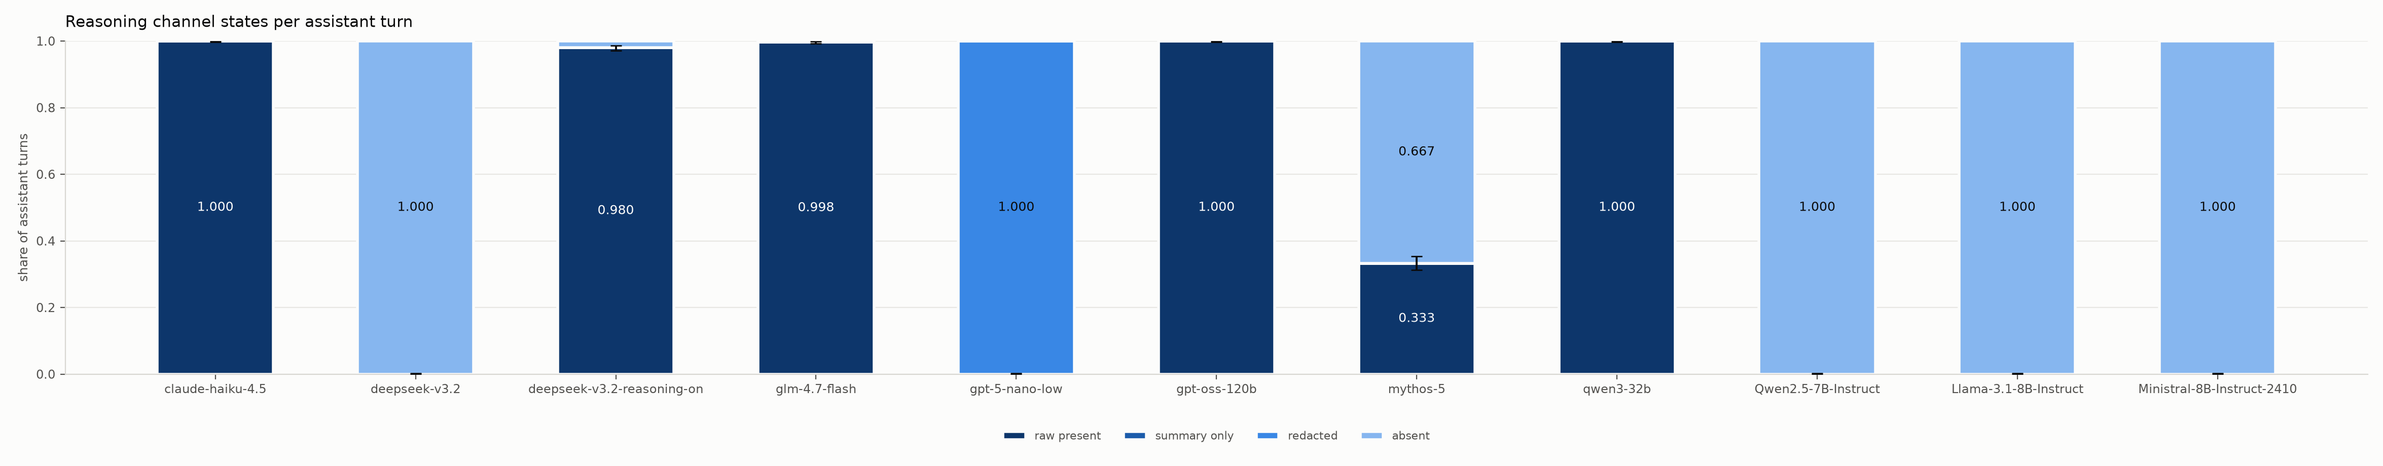
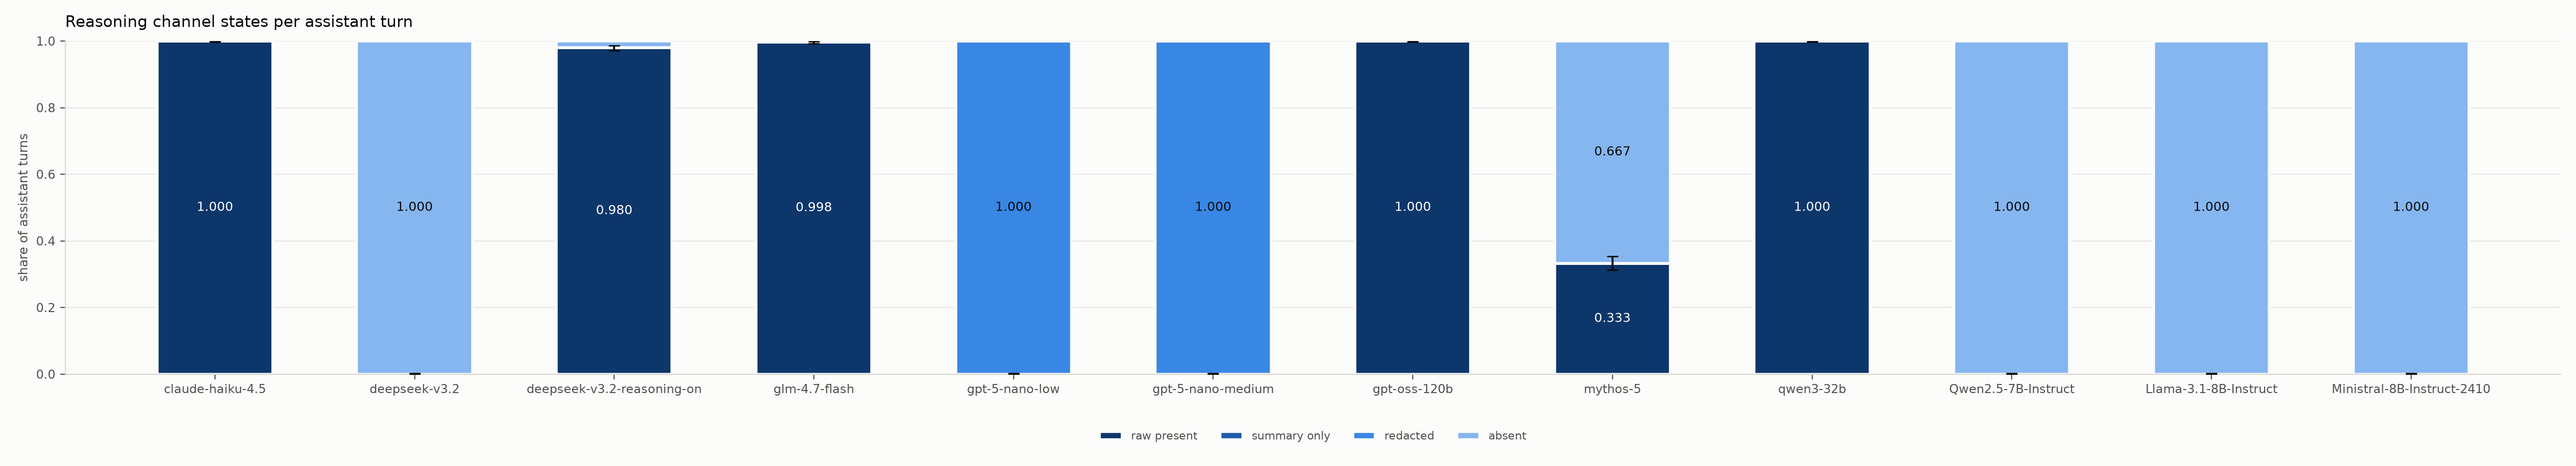
the effort axis: 5.4x more reasoning, identical zero disclosure
gpt-5-nano-medium complete. The reasoning_effort axis - absent from this project
until tonight, and the only MANIPULATED variable in it - now has two levels:

  effort   turns  reasoning tokens  tokens/turn  raw_present  redacted
  low      1,263           341,726          337       0.0000    1.0000
  medium   1,263         1,834,432        1,811       0.0000    1.0000

The manipulation worked: volume went up 5.4x. The outcome did not move at all.
So how much a model reasons and how much of it you may read are separate
quantities, and this arm moves one while the other stays pinned at zero.

The practical consequence is a bad inference this kills: "the model reasoned a
lot, so there was plenty for a monitor to catch". Here there were 1.8 MILLION
reasoning tokens and a recall ceiling of 0.000. A monitor gated on deliberation
gains nothing from the model thinking harder, because the gate is not set by the
thinking.

Scope stated in the document rather than left to be over-read: one model, one
vendor, two of three levels. It shows effort and disclosure CAN be independent,
not that they always are. One clean counter-example is enough for the claim
being made, which is that volume is not evidence of visibility.

8 of 9 arms, 10,104 turns. Only gpt-5-nano-high remains. 187 tests pass.

diff --git a/RESULTS_SUMMARY.md b/RESULTS_SUMMARY.md
@@ -71,7 +71,7 @@ OpenRouter, 2026-09-12/13. Sample counts match §1 exactly so the two are
 comparable. Scoring disabled: we measure the channel, not performance.
 
 <!-- BEGIN:reasoning-status -->
-**7 of 9 arms complete**, 8,841 assistant turns measured. `MIN_CELL_N=30`; no cell is low-n. 0 sample(s) errored; 1 incomplete log(s) excluded and counted. Not yet run: `gpt-5-nano-medium`, `gpt-5-nano-high`.
+**8 of 9 arms complete**, 10,104 assistant turns measured. `MIN_CELL_N=30`; no cell is low-n. 0 sample(s) errored; 1 incomplete log(s) excluded and counted. Not yet run: `gpt-5-nano-high`.
 <!-- END:reasoning-status -->
 
 Arms below are complete. Pending arms are **not** included in any figure or
@@ -90,6 +90,7 @@ the n actually measured.
 | `deepseek-v3.2` | 1,263 | **0.0000** | [0.0000, 0.0030] | 0.0000 | 0.0000 | 1.0000 |
 | `deepseek-v3.2-reasoning-on` | 1,263 | **0.9802** | [0.9709, 0.9866] | 0.0000 | 0.0000 | 0.0198 |
 | `gpt-5-nano-low` | 1,263 | **0.0000** | [0.0000, 0.0030] | 0.0000 | 1.0000 | 0.0000 |
+| `gpt-5-nano-medium` | 1,263 | **0.0000** | [0.0000, 0.0030] | 0.0000 | 1.0000 | 0.0000 |
 <!-- END:reasoning-arms -->
 
 Zero samples errored. Incomplete logs are excluded and counted, not partially
@@ -196,11 +197,37 @@ deliberation is a configuration and disclosure choice, which is H1.**
 > provider which emits reasoning will keep doing so; `gpt-5-nano` is the
 > counter-case, and it is still only a probe.
 
-### `reasoning_effort` — still not measured
+### `reasoning_effort` — a designed experiment, and it separates two things
 
-Every completed arm records `reasoning_effort=None`. The three `gpt-5-nano`
-effort arms are pending. Until they land, the effort axis remains **absent from
-this project**, exactly as in §1.
+This is the only arm where a variable was **manipulated** rather than observed,
+which is what spec §15 extension A asks for. `gpt-5-nano` was run over the same
+1,013 samples at each effort level, changing nothing else.
+
+| effort | n turns | reasoning tokens | mean tokens/turn | `raw_present` | `redacted` |
+|---|---|---|---|---|---|
+| low | 1,263 | 341,726 | 337 | **0.0000** | **1.0000** |
+| medium | 1,263 | 1,834,432 | 1,811 | **0.0000** | **1.0000** |
+| high | *running* | — | — | — | — |
+
+**The manipulation worked and the outcome did not move.** Raising effort from
+low to medium multiplied reasoning volume by **5.4×** — the model demonstrably
+thought far harder — while the share an evaluator can read stayed at exactly
+**0.0000**, and every turn stayed `redacted`.
+
+So *how much* a model reasons and *how much of it you may read* are separate
+quantities, and this arm moves one without moving the other. A monitor gated on
+deliberation gains **nothing** from the model thinking 5.4× harder, because the
+gate is not set by the thinking. It is set by the disclosure policy.
+
+This matters for a specific bad inference: "the model reasoned a lot, so there
+was plenty for a monitor to catch". Here there were **1.8 million reasoning
+tokens** and a recall ceiling of **0.000**.
+
+> **Scope.** One model, one vendor, two of three levels so far. It shows that
+> effort and disclosure *can* be independent, not that they always are — a
+> vendor that returns raw chains would presumably show `raw_present` at every
+> effort level. The claim is that volume is not evidence of visibility, and one
+> clean counter-example is enough to establish that.
 
 ---
 
